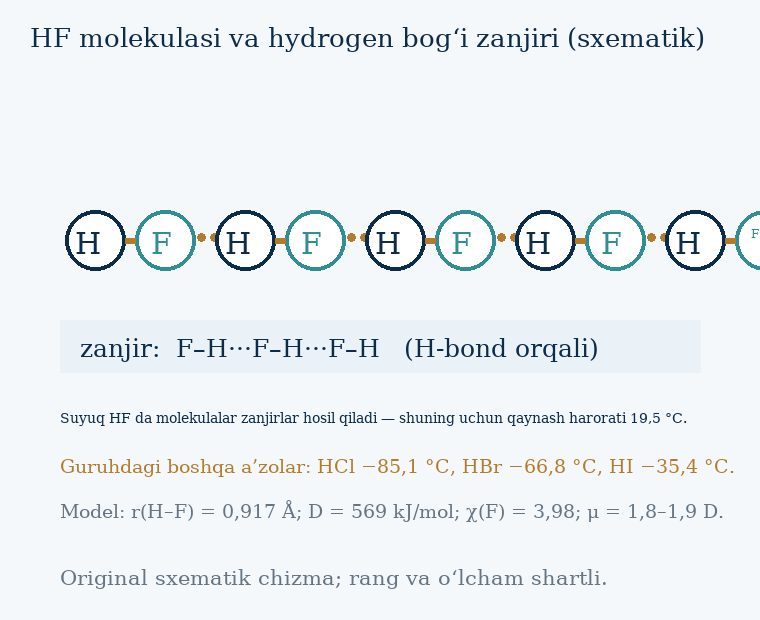
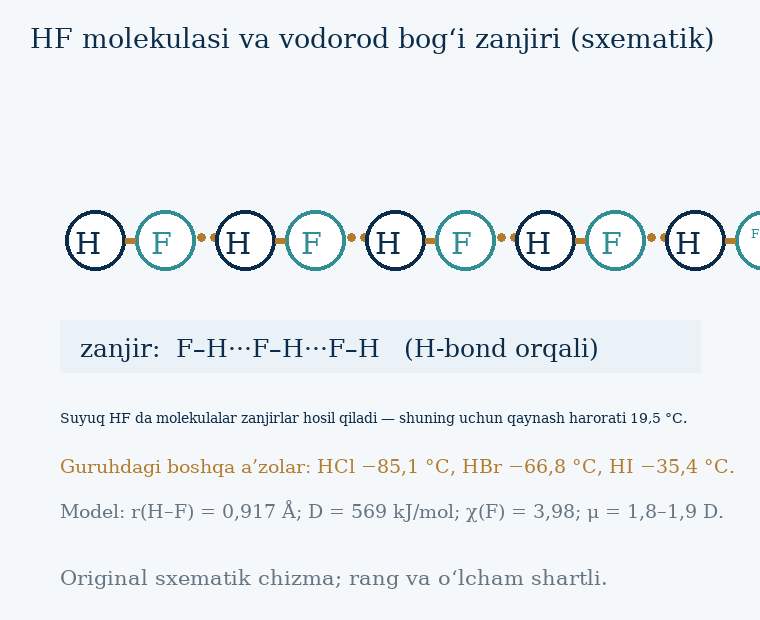
terminologiya: «hydrogen bog‘i» → «vodorod bog‘i» (kitob bo‘ylab)
- 20 ta joyda yarim tarjima atamasi to‘liq o‘zbekchaga o‘tkazildi: 6.1 va 6.2 matn,
  jadvallar, sxema sarlavhalari, grafik yozuvlari, formulalar va rasm manbalari
- Inglizcha rasmiy nomlar (hydrogen chloride, hydrogenphosphate) va bibliografik
  sarlavhalar o‘zgartirilmadi
- 6.1 va 6.2 DOCX qayta qurildi; ikkala checker PASS; Google PDF’lar qayta eksport
  qilinib 11 sahifa saqlangani tekshirildi
- Drive nusxalari yangilandi (eski ID’lar muxlatga solindi)

Changed region(s): [[0.0605, 0.0306, 0.9382, 0.0919]]

diff --git a/kitob/qurilma/build_06_02_sidebar.py b/kitob/qurilma/build_06_02_sidebar.py
@@ -20,10 +20,10 @@ ASSETS = ROOT / 'rasmlar' / 'hf'
 NAVY = '0B2C4A'; BRONZE = 'C28E3B'; PALE = 'EDF3F7'; INK = '243746'
 
 panels = [
- (0, 'molekulax.png', 'rasm', 'HF molekulasi va hydrogen bog‘i.',
+ (0, 'molekulax.png', 'rasm', 'HF molekulasi va vodorod bog‘i.',
   '6.2.1-rasm. HF molekulasi va uning zanjir hosil qilishi (sxematik, original).'),
  (1, 'fizikx.png', 'sxema', 'Anhidr HF: fizik xossalar.',
-  '6.2.2-sxema. Suyuqlanish diapazoni, dielektrik doimiy, hydrogen bog‘i va o‘z-o‘zini ionlashuv.'),
+  '6.2.2-sxema. Suyuqlanish diapazoni, dielektrik doimiy, vodorod bog‘i va o‘z-o‘zini ionlashuv.'),
  (2, 'anidrsx.png', 'sxema', 'Anhidr HF erituvchi tizimi.',
   '6.2.3-sxema. Proton holati, Lewis kislotalar va superkislota hosil bo‘lishi (sxematik).'),
  (3, 'spetsiatsiya.png', 'grafik', 'Suvli HF: zarrachalarning ulushi.',
@@ -161,7 +161,7 @@ def add_comparison_table(cell, spec):
 
 refs = [
  '[1] Housecroft & Sharpe — Liquid HF: suyuqlanish 190–292,5 K; ε = 84 (273 K), 175 (200 K); K_self = 2×10⁻¹² (273 K); 3HF ⇌ H₂F⁺ + HF₂⁻.',
- '[2] Barron’s — Compounds of Fluorine; Wikipedia — Hydrogen fluoride: hydrogen bog‘i; HF₂⁻ hosil bo‘lishi (lgK = 0,7); ion juftlari [H₃O⁺·F⁻]; SiO₂ tenglamalari.',
+ '[2] Barron’s — Compounds of Fluorine; Wikipedia — Hydrogen fluoride: vodorod bog‘i; HF₂⁻ hosil bo‘lishi (lgK = 0,7); ion juftlari [H₃O⁺·F⁻]; SiO₂ tenglamalari.',
  '[3] Wikipedia — Superacid va Fluoroantimonic acid: H₀ = −15,1 (HF), −21 (SbF₅), < −28 (1:1); SbF₅ + 2HF ⇌ H₂F⁺ + SbF₆⁻.',
  '[4] Kim et al. (2024), Applied Surface Science; Helms et al.; Yu et al.: r = 510[F⁻] + 610[HF] + 2890[HF₂⁻] Å/min; HF₂⁻ asosiy hissa; Si₃N₄ selektivligi.',
  '[5] CDC/NIOSH MMG 1142; Calpoison; StatPearls (NCBI): OSHA 3 ppm, ACGIH 0,5 ppm (F), TLV-C 2 ppm, IDLH 30 ppm; kalsiy glyukonat bilan davolash.',

diff --git a/kitob/qurilma/build_06_01_sidebar.py b/kitob/qurilma/build_06_01_sidebar.py
@@ -23,7 +23,7 @@ panels = [
  (0, 'sxematurlari.png', 'sxema', 'Guruh trendlari: bitta sxema, beshta ko‘rsatkich.',
   '6.1.1-sxema. Elektronegativlik, bog‘ energiyasi, kislotalik, termik barqarorlik va qaytaruvchilik trendlari.'),
  (1, 'gibridlanishx.png', 'sxema', 'H–X bog‘i va dipol moment.',
-  '6.1.2-sxema. Elektron bulutining siljishi, σ bog‘ quyuqligi va hydrogen bog‘i (sxematik).'),
+  '6.1.2-sxema. Elektron bulutining siljishi, σ bog‘ quyuqligi va vodorod bog‘i (sxematik).'),
  (2, 'kislotalik.png', 'grafik', 'Suvda tekislash va DMSOdagi farq.',
   '6.1.3-grafik. pK_a qiymatlari suvda va DMSO da (model egri chizig‘i).'),
  (3, 'energiya.png', 'grafik', 'Energetik balans: bog‘ va gidratatsiya.',

diff --git a/kitob/qurilma/content_06_02.py b/kitob/qurilma/content_06_02.py
@@ -38,7 +38,7 @@ data = [
  ['Chegara', 'Doza va sharoitlar berilmadi', 'Model']]),
 ('spetsiatsiya', 'Suvli HF: spetsiatsiya va konsentratsiya', [
  ['Ka (suv)', '6,8×10⁻⁴ (pK_a 3,17)', 'Kuchsiz kislota'],
- ['Ion juftlari', '[H₃O⁺·F⁻] — hydrogen bog‘langan', 'Dissotsiatsiya kamayadi'],
+ ['Ion juftlari', '[H₃O⁺·F⁻] — vodorod bog‘langan', 'Dissotsiatsiya kamayadi'],
  ['HF₂⁻ hosil bo‘lishi', 'HF + F⁻ ⇌ HF₂⁻; lgK = 0,7', 'Konsentratsiya oshganda'],
  ['Model: 0,010 M', 'HF 76,0 %; F⁻ 22,3 %; HF₂⁻ 0,8 %; pH 2,635', 'Ideal erituvchi modeli'],
  ['Model: 0,100 M', 'HF 87,9 %; F⁻ 6,4 %; HF₂⁻ 2,8 %; pH 2,033', 'Model'],

diff --git a/kitob/qurilma/check_06_02.py b/kitob/qurilma/check_06_02.py
@@ -96,7 +96,7 @@ ck(ms.count('[[EQ:') == 11 and ms.count('[[TABLE:') == 11, 'matnda 11 formula va
 ck('amaliyot tavsiyalari berilmaydi' in ms, 'xavfsizlik chegarasi matnda bayon qilindi')
 ck('o‘lchov ma’lumotlari emas' in ms, 'model cheklovi matnda ko‘rsatilgan')
 ck('CaF₂ + H₂SO₄' in ms and 'SiO₂ + 6HF' in ms, 'asosiy tengliklar matnda')
-ck('hydrogen bog‘i' in ms and 'passivatsiya' in ms, 'mavzu kalit tushunchalari matnda')
+ck('vodorod bog‘i' in ms and 'passivatsiya' in ms, 'mavzu kalit tushunchalari matnda')
 
 print('5) DOCX tuzilmasi')
 doc = Document(DOCX)

diff --git a/kitob/qurilma/equations_06_02.py b/kitob/qurilma/equations_06_02.py
@@ -18,7 +18,7 @@ def halide_equations():
       # 1 — molekula
       [seq('r(H–F) = 0,917 Å;  ', var('D', ''), '(H–F) = 569 kJ/mol'),
        seq('χ(F) = 3,98;  Δχ(H–F) = 1,78;  ', var('μ', ''), ' = 1,8–1,9 D'),
-       seq(chem('H–F···H–F···H–F'), '   (hydrogen bog‘i zanjiri)'),
+       seq(chem('H–F···H–F···H–F'), '   (vodorod bog‘i zanjiri)'),
        seq('T', var('q', ''), ' :  HF 19,5 °C  >  HCl −85,1 °C')],
       # 2 — anhidr HF
       [chem('3HF ⇌ H₂F⁺ + HF₂⁻'),

diff --git a/kitob/qurilma/draw_06_02.py b/kitob/qurilma/draw_06_02.py
@@ -244,7 +244,7 @@ scheme('fizikx', 'Anhidr HF: fizik xossalar va erituvchi sifatida (sxematik)', [
 
 
 # --- Original illustrasiyalar ---------------------------------------------
-im, d = canvas('HF molekulasi va hydrogen bog‘i zanjiri (sxematik)', 620)
+im, d = canvas('HF molekulasi va vodorod bog‘i zanjiri (sxematik)', 620)
 for i in range(5):
     x = 95 + 150 * i
     d.ellipse((x - 30, 210, x + 30, 270), fill='#FFFFFF', outline=N, width=4)

diff --git a/kitob/dizayn.md b/kitob/dizayn.md
@@ -526,22 +526,32 @@ Hamma yangi nusxalar reader/discovery=false. Oldingi Drive fayllari o‘chirilma
 - Native Google Docs→DOCX roundtrip 1930336 bayt: 45 OMML qatori, 12 kasr, 121 pastki, 28 yuqori, 17 rasm saqlangan. Yakuniy Google PDF 1394442 bayt, 11 sahifa. PDF `google_drive/6.1 qoralamalar/6.1 final.pdf` da.
 - Xavfsizlik: HF uchun tizimli toksiklik va chegaralar (OSHA TWA 3 ppm, IDLH 30 ppm) manbaga asosida keltirilgan; olish usullari va materiallar faqat sxematik tarzda; konsentratsiya, idish tanlash, saqlash va amaliy tayyorlash bo‘yicha amaliyot tavsiyalari berilmaydi.
 - QA paytida yuklangan 3 ta oraliq native Docs va 3 ta oraliq DOCX muxlatga solindi; foydalanuvchiga faqat quyidagi yakuniy havolalar beriladi.
-- Yakuniy DOCX: https://drive.google.com/uc?id=17T_Tq_DJexBIxnphYJvM_MkIFdNv3QEj&export=download
-- Yakuniy Google Docs: https://docs.google.com/document/d/1MkYjXOpbSIXM_D64UzQjZULXjdxQHcXAof5ckT6lPxs/edit
+- Yakuniy DOCX: https://drive.google.com/uc?id=1rlHTOfIq3R3lspPglH4K5v-zaxrRRaFp&export=download
+- Yakuniy Google Docs: https://docs.google.com/document/d/1PT_X45Tw_cwl5VQnDFM0El62SrY7Nlzgls4gA0N5Y_E/edit
 - Ikkala yakuniy nusxa reader/discovery=false. Manbalar, model va render QA `matn/06_01_rasm_manbasi.md` da.
 - Keyingi mavzu: 6.2 — HF, ftorid kislota.
 
 ## 6.2 — HF, ftorid kislota (2026-10-23)
 - Alohida DOCX: `chiqish/Noorganik-kislotalar-6.2-HF-florid-kislota.docx`; 958 892 bayt; 11 sahifa (har bir bo‘lim aynan bitta sahifada). 6-bobning ikkinchi mavzusi.
-- 11 bo‘lim: molekulaning maxsusligi va hydrogen bog‘i; anhidr HF erituvchi tizimi; HF asosidagi superkislotalar; suvli HF spetsiatsiyasi; ishlab chiqarish, tozalash va qayta foydalanish; shisha va keramikaga ta’sir (yemirish modeli); metallarga ta’sir (fluoridli passivatsiya); floridlar, komplekslar va qo‘llanish; sanoat sohalari; xavfsizlik, ekologiya va chiqindilar; sifat, tahlil va ishlangan hisob.
+- 11 bo‘lim: molekulaning maxsusligi va vodorod bog‘i; anhidr HF erituvchi tizimi; HF asosidagi superkislotalar; suvli HF spetsiatsiyasi; ishlab chiqarish, tozalash va qayta foydalanish; shisha va keramikaga ta’sir (yemirish modeli); metallarga ta’sir (fluoridli passivatsiya); floridlar, komplekslar va qo‘llanish; sanoat sohalari; xavfsizlik, ekologiya va chiqindilar; sifat, tahlil va ishlangan hisob.
 - A4 13,5:4,5 cm, ko‘k/bronza ramkalar. 11 jadval, 11 raqamlangan Equation guruh (46 native OMML qatori), 5 hisoblangan grafik + 6 CSV, 7 sxema, 5 original illyustratsiya (17 PNG), 22 yon lavha, 11-bo‘limda 6 ta adabiyot bloki. TNR matn (10 pt), Cambria Math Equation, DejaVu Serif raster.
-- Markaziy g‘oya: HF boshqa galogenidlardan ikki tomonlama farqlanadi — suvda kuchsiz kislota (Ka = 6,8×10⁻⁴, ion juftlari [H₃O⁺·F⁻]), quruq holda kuchli kislota va kuchli erituvchi; hydrogen bog‘i tufayli qaynash harorati 19,5 °C (guruhda eng yuqori). Anhidr HF o‘z-o‘zini ionlashadi (3HF ⇌ H₂F⁺ + HF₂⁻, K_self = 2×10⁻¹²) va kuchsiz, kichik F⁻ ioni bilan kuchli bog‘lanadi — shuning uchun HF + SbF₅ superkislota beradi (H₀ = −15,1 → −21 → < −28).
+- Markaziy g‘oya: HF boshqa galogenidlardan ikki tomonlama farqlanadi — suvda kuchsiz kislota (Ka = 6,8×10⁻⁴, ion juftlari [H₃O⁺·F⁻]), quruq holda kuchli kislota va kuchli erituvchi; vodorod bog‘i tufayli qaynash harorati 19,5 °C (guruhda eng yuqori). Anhidr HF o‘z-o‘zini ionlashadi (3HF ⇌ H₂F⁺ + HF₂⁻, K_self = 2×10⁻¹²) va kuchsiz, kichik F⁻ ioni bilan kuchli bog‘lanadi — shuning uchun HF + SbF₅ superkislota beradi (H₀ = −15,1 → −21 → < −28).
 - Model qiymatlari: speksiatsiya modeli 0,010 M → HF 76,0 % / F⁻ 22,3 % / HF₂⁻ 0,8 % (pH 2,635), 1,000 M → 89,5 / 1,1 / 4,7 % (1,238), 10,000 M → HF₂⁻ 5,2 % (0,277); yemirish r = 510[F⁻] + 610[HF] + 2890[HF₂⁻] Å/min → 1,000 M: 687,8; 4,000 M: 2778,7; 8,000 M: 5567,7 Å/min; 1 kg SiO₂ → HF 1997,8 g (48 % da 4162,1 g), H₂SiF₆ 2398,2 g, H₂O 599,6 g; passivatsiya 1 g Al → 3,113 g AlF₃, Fe → 2,326 g FeF₃, Ni → 1,647 g NiF₂, Cu → 1,598 g CuF₂; chiqindi 1000 kg 10 % HF → Ca(OH)₂ 185,2 kg, CaF₂ 195,1 kg, H₂O 90,0 kg (kirish 285,2 = chiqish 285,2 kg); qoldiq F⁻: Ca²⁺ 0,001 M → 3,752 mg/L, 0,010 M → 1,186 mg/L, 0,100 M → 0,375 mg/L (K_sp = 3,9×10⁻¹¹); kaltsiy 20 g HF → 0,500 mol Ca²⁺ → 224,1 g glyukonat, 100 g HF → 2,499 mol → 1120,6 g; olish 1000 kg fluorit (97 %, unum 92 %) → HF 457,3 kg, H₂SO₄ 1218,5 kg, CaSO₄ 1691,4 kg. Barchasi ochiq shartli model; tajriba ma’lumoti emas.
 - Modelda topilgan xatolar tuzatildi: (1) chiqindi modelida CaF₂ stöchiometriya noto‘g‘ri hisoblangan (n(HF) emas n(CaF₂) = n(HF)/2) — kirish 285,2 kg ≠ chiqish 480,3 kg xatosi tuzatildi; (2) g→kg konversiyasi (Ca(OH)₂ 185 176,9 kg → 185,2 kg) tuzatildi; (3) grafiklarda teg takrorlanishi va yon ustun bilan ustma-ust tushishi tuzatildi (grafiklar qayta chizildi, chiqindi grafigi ikki ustki panelli qilindi); (4) `Selekтивlik` yozuvida kirill harflar aralashgan — barcha 6.2 fayllarida `Selektivlik` ga tuzatildi; (5) butun kitob bo‘yicha kirill qoldiqlari tekshirildi — `dizayn.md`, 4.4 jadval/generator/draw fayllaridagi «Fazа» va «bронза» xatolari tuzatildi (build_01_01.py, build_docx.py, build_mundarija_docx.py dagi kirill atamalar ataylab qoldirildi).
 - `check_06_02.py` PASS: model nuqtalari (spetsiatsiya 8 konsentratsiya, yemirish tezligi, passivatsiya 4 metall, chiqindi mass balansi, qoldiq fluorid 5 nuqta, kaltsiy talabi, olish va shisha modellari, anhidr HF konstantalari), 6 CSV qator sonlari, 17 PNG, matndagi barcha asosiy raqamlar va atamalar (WHO 1,5 mg/L, AQSh 4,0 mg/L, OSHA 3 ppm, IDLH 30 ppm, kalsiy glyukonat, gipokalsemiya, Na₃AlF₆, H₂SiF₆), Word matematiği (46 OMML qatori), 11 jadval sarlavhasi, 11 formula raqami (6.2.1)…(6.2.11), 17 rasm, 22 yon lavha, TNR/Cambria Math shriftlari, xavfsizlik chegarasi matni.
 - Sahifalash: dastlabki render 13 sahifa bo‘ldi (7- va 11-bo‘limlar yon ustuni to‘shdi) → 7-bo‘limdan ikkinchi rasm (grafik) 8-bo‘limga ko‘chirildi; 11-bo‘limda adabiyotlar 8 → 6 qisqartirildi va 7 pt qilindi, jadval 11 → 9 qator; kalsiy grafigi 3-bo‘limga ko‘chirildi → 11 sahifa, bo‘sh sahifa yo‘q. Sahifalar 1, 6 va 11 ko‘z bilan tekshirildi.
 - Xavfsizlik: HF ning tizimli toksikligi (Ca²⁺/Mg²⁺, gipokalsemiya), chegaralar (OSHA 3 ppm, ACGIH 0,5 ppm (F), TLV-C 2 ppm, IDLH 30 ppm) va kalsiy glyukonat manbaga asosida keltirilgan; davolash dozalari va amaliyot tavsiyalari berilmadi; tibbiy yordam — shifokor qarori bilan.
-- Manbalar, model va render QA `matn/06_02_rasm_manbasi.md` da. PDF: `google_drive/6.2 qoralamalar/6.2 final.pdf` (1 358 862 B, 11 sahifa).
-- Yakuniy DOCX: https://drive.google.com/uc?id=13xSUPEFnN6r9RPSxMHNSHmPTwOnvtcdJ&export=download
-- Yakuniy Google Docs: https://docs.google.com/document/d/1F2ru0JIcN-JfPg25n4D-FQte931ZPSVj0mYKi6u2my0/edit
+- Manbalar, model va render QA `matn/06_02_rasm_manbasi.md` da. PDF: `google_drive/6.2 qoralamalar/6.2 final.pdf` (1 358 786 B, 11 sahifa).
+- Yakuniy DOCX: https://drive.google.com/uc?id=1fSrPnvKLpSbEyJ0Ddhl7DH9u3rxB24bD&export=download
+- Yakuniy Google Docs: https://docs.google.com/document/d/1G2kYZd1m26cKCou4EIECkNVDdI2vYpIOeucfJmnx5DQ/edit
 - Ikkala yakuniy nusxa reader/discovery=false. Keyingi mavzu: 6.3 — HCl, xlorid kislota.
+
+## Terminologiya tuzatuvi: «hydrogen bog‘i» → «vodorod bog‘i» (2026-10-23)
+- Foydalanuvchi izohi bo‘yicha yarim tarjima qilingan «hydrogen bog‘i» atamasi kitob bo‘ylab to‘liq o‘zbekchaga o‘tkazildi: **vodorod bog‘i** (vodorod bog‘lanishi, vodorod bog‘langan).
+- Almashgan 20 ta joy: `matn/06_02.md` (4), `matn/06_02_jadvallar.json` (1), `matn/06_02_rasm_manbasi.md` (4), `matn/06_01_rasm_manbasi.md` (1), `qurilma/content_06_02.py` (1), `qurilma/equations_06_02.py` (1), `qurilma/draw_06_02.py` (1), `qurilma/build_06_02_sidebar.py` (3), `qurilma/build_06_01_sidebar.py` (1), `qurilma/check_06_02.py` (1), `dizayn.md` (2).
+- Atama nomi, bibliografik sarlavhalar («Wikipedia — Hydrogen fluoride», «Definition of the hydrogen bond (IUPAC)») va 2.4-bo‘limdagi nomlash qoidalari (hydrogen chloride, hydrogenphosphate, dihydrogenphosphate) o‘zgartirilmadi — ular inglizcha rasmiy nomlar va manba sarlavhalari.
+- 6.1 va 6.2 hujjatlari qayta qurildi, `check_06_01.py` va `check_06_02.py` PASS (11 sahifa saqlanadi, Google PDF’lar qayta eksport qilinib tekshirildi: 6.1 — 1 394 441 B, 6.2 — 1 358 786 B, ikkalasi 11 sahifa).
+- Yangilangan Drive havolalari:
+  - 6.1 Google Docs: https://docs.google.com/document/d/1PT_X45Tw_cwl5VQnDFM0El62SrY7Nlzgls4gA0N5Y_E/edit ; DOCX: https://drive.google.com/uc?id=1rlHTOfIq3R3lspPglH4K5v-zaxrRRaFp&export=download
+  - 6.2 Google Docs: https://docs.google.com/document/d/1G2kYZd1m26cKCou4EIECkNVDdI2vYpIOeucfJmnx5DQ/edit ; DOCX: https://drive.google.com/uc?id=1fSrPnvKLpSbEyJ0Ddhl7DH9u3rxB24bD&export=download
+  - Eski (muxlatga solingan) nusxalar: 1MkYjXOpbSIXM_D64UzQjZULXjdxQHcXAof5ckT6lPxs, 17T_Tq_DJexBIxnphYJvM_MkIFdNv3QEj, 1F2ru0JIcN-JfPg25n4D-FQte931ZPSVj0mYKi6u2my0, 13xSUPEFnN6r9RPSxMHNSHmPTwOnvtcdJ.

diff --git a/kitob/matn/06_02_rasm_manbasi.md b/kitob/matn/06_02_rasm_manbasi.md
@@ -2,8 +2,8 @@
 
 ## Manbalar (to‘liq o‘qilgan)
 1. **Housecroft & Sharpe, Inorganic Chemistry — 9.7A: Liquid Hydrogen Fluoride** (https://chem.libretexts.org/Bookshelves/Inorganic_Chemistry/Map:_Inorganic_Chemistry_(Housecroft)/09:_Non-aqueous_Media/9.07:_Liquid_Hydrogen_Fluoride/9.7A:_Physical_Properties). Suyuqlanish diapazoni 190–292,5 K; nisbiy o‘tkazuvchanlik ε = 84 (273 K) va 175 (200 K); o‘z-o‘zini ionlashuv K_self = 2×10⁻¹² (273 K); 3HF ⇌ H₂F⁺ + HF₂⁻.
-2. **Barron’s, Chemistry of the Main Group Elements — 10.2: Compounds of Fluorine** (https://chem.libretexts.org/Bookshelves/Inorganic_Chemistry/Chemistry_of_the_Main_Group_Elements_(Barron)/10:_The_Halogens/10.02:_Compounds_of_Fluorine). HF da hydrogen bog‘i va polimerlanish; ε = 84,2; HF₂⁻ hosil bo‘lishi (pK = 0,7); SbF₅ bilan superkislota; BF₃, PF₅, AlF₃, GeF₄, SnF₄, SeF₄ — fluorid qabul qiluvchilar.
-3. **Wikipedia — Hydrogen fluoride / Hydrofluoric acid.** Kuchsiz kislota sababi — hydrogen bog‘langan ion juftlari [H₃O⁺·F⁻]; konsentratsiyalangan eritmada bifluorid ionlari; 3HF ⇌ H₂F⁺ + HF₂⁻; SiO₂ + 6HF → H₂SiF₆ + 2H₂O; SiO₂ + 4HF → SiF₄ + 2H₂O; azeotrop 37 % / 120 °C; M = 20,006 g/mol.
+2. **Barron’s, Chemistry of the Main Group Elements — 10.2: Compounds of Fluorine** (https://chem.libretexts.org/Bookshelves/Inorganic_Chemistry/Chemistry_of_the_Main_Group_Elements_(Barron)/10:_The_Halogens/10.02:_Compounds_of_Fluorine). HF da vodorod bog‘i va polimerlanish; ε = 84,2; HF₂⁻ hosil bo‘lishi (pK = 0,7); SbF₅ bilan superkislota; BF₃, PF₅, AlF₃, GeF₄, SnF₄, SeF₄ — fluorid qabul qiluvchilar.
+3. **Wikipedia — Hydrogen fluoride / Hydrofluoric acid.** Kuchsiz kislota sababi — vodorod bog‘langan ion juftlari [H₃O⁺·F⁻]; konsentratsiyalangan eritmada bifluorid ionlari; 3HF ⇌ H₂F⁺ + HF₂⁻; SiO₂ + 6HF → H₂SiF₆ + 2H₂O; SiO₂ + 4HF → SiF₄ + 2H₂O; azeotrop 37 % / 120 °C; M = 20,006 g/mol.
 4. **Wikipedia — Superacid; Fluoroantimonic acid; Antimony pentafluoride.** H₀(HF) = −15,1; H₀(SbF₅) = −21; 1:1 aralashma H₀ < −28; SbF₅ + 2HF ⇌ H₂F⁺ + SbF₆⁻; real eritma spetsiatsiyasi (H₃F₂⁺, Sb₄F₂₁⁻).
 5. **Kim et al. (2024), Applied Surface Science — Understanding the contributions of F⁻, HF and HF₂⁻ to the etching of SiO₂.** Tezlik qonuni: r (Å/min) = 510[F⁻] + 610[HF] + 2890[HF₂⁻]; HF₂⁻ — asosiy hissa.
 6. **Helms et al.; Yu et al.; GlobSino (etch ma’lumotlari).** HF₂⁻ tezligi HF dan ~4 barobar yuqori; H₂SiF₆ to‘planishi yemirishni sekinlashtiradi; selekтивlik SiO₂ : Si₃N₄ : Si ≈ 1 : >100 : 0,1; LPCVD Si₃N₄ — 3,3 Å/s; alyuminiy filmida fluoratsiya qatlami ~2000 Å, >50 % F.
@@ -13,7 +13,7 @@
 ## Model va hisoblar (barchasi ochiq shartli, o‘lchov ma’lumoti emas)
 - **Model A — suvli HF spetsiatsiyasi** (ideal erituvchi modeli; Ka = 6,8×10⁻⁴, HF + F⁻ ⇌ HF₂⁻ lgK = 0,7; zaryad va massa balansi bo‘yicha sonikli yechim):
   0,010 M → HF 76,0 %, F⁻ 22,3 %, HF₂⁻ 0,8 %, pH 2,635; 0,050 M → 86,0 / 9,8 / 2,1 %, pH 2,225; 0,100 M → 87,9 / 6,4 / 2,8 %, pH 2,033; 0,500 M → 89,4 / 1,9 / 4,3 %, pH 1,503; 1,000 M → 89,5 / 1,1 / 4,7 %, pH 1,238; 2,0 M → pH 0,958; 5,0 M → pH 0,573; 10,000 M → HF₂⁻ 5,2 %, pH 0,277.
-  Model chegarasi: faolik koeffitsiyentlar, pastki suv faolligi va ion juftlarining hydrogen bog‘lanishi hisobga olinmaydi — shuning uchun adabiyotdagi «konsentratsiyalangan HF da bifluorid ustun» xulosasi modelda to‘liq namoyon bo‘lmaydi.
+  Model chegarasi: faolik koeffitsiyentlar, pastki suv faolligi va ion juftlarining vodorod bog‘lanishi hisobga olinmaydi — shuning uchun adabiyotdagi «konsentratsiyalangan HF da bifluorid ustun» xulosasi modelda to‘liq namoyon bo‘lmaydi.
 - **Model B — shishani yemirish**: SiO₂ + 6HF → H₂SiF₆ + 2H₂O; 1 kg SiO₂ uchun HF 1997,8 g (48 % li eritmada 4162,1 g), H₂SiF₆ 2398,2 g, H₂O 599,6 g. Tezlik modeli: 0,05 M → 32 Å/min; 0,10 M → 65,1; 0,25 M → 167; 0,50 M → 340,3; 1,000 M → 687,8; 2,000 M → 1384; 4,000 M → 2778,7; 8,000 M → 5567,7 Å/min; HF₂⁻ ulushi 13 → 21 %.
 - **Model C — passivatsiya** (1 g metall): Al → AlF₃ 3,113 g (HF 1,483 g, H₂ 0,112 g); Fe → FeF₃ 2,326 g (HF 0,716 g, H₂ 0,054 g); Ni → NiF₂ 1,647 g (HF 0,682 g, H₂ 0,017 g); Cu → CuF₂ 1,598 g (HF 0,630 g, H₂ 0,016 g).
 - **Model D — chiqindi boshqaruv**: 2HF + Ca(OH)₂ → CaF₂↓ + 2H₂O; 1000 kg 10 % li HF uchun Ca(OH)₂ 185,2 kg, CaF₂ 195,1 kg, H₂O 90,0 kg; kirish 285,2 kg = chiqish 285,2 kg. Qoldiq fluorid (K_sp(CaF₂) = 3,9×10⁻¹¹): Ca²⁺ 0,001 M → 3,752 mg/L; 0,005 M → 1,68 mg/L; 0,010 M → 1,186 mg/L; 0,050 M → 0,53 mg/L; 0,100 M → 0,375 mg/L. Chegara: WHO 1,5 mg/L.
@@ -34,7 +34,7 @@ Har bir grafikda «model egri chizig‘i; o‘lchov ma’lumoti emas» belgisi b
 `fizikx.png` (anhidr HF fizik xossalari va erituvchi sifatida), `anidrsx.png` (erituvchi tizim: proton holati, Lewis kislotalar, superkislota), `olishsx.png` (olish, quruq tozalash, CaF₂ cho‘qmasini tiklash), `shishasx.png` (shishani yemirish mexanizmi va tezlik qonuni), `passivatsiyasx.png` (metallning fluoridli passivatsiyasi), `komplekssx.png` (fluoridlar, kriyolit, kompleks anionlar, suv chegaralari), `xavfsizliksx.png` (oldini olish → aniqlash → javob zanjiri).
 
 ## Illyustratsiyalar (5 ta, original; mikrofoto/atom tuzilmasi emas)
-`molekulax.png` (HF molekulasi va hydrogen bog‘i zanjiri), `qatlamx.png` (metall sirtidagi fluorid qatlami — sxematik kesim), `plyotax.png` (yarim o‘tkazgich tozalash: SiO₂ qatlami va substrat), `idishx.png` (saqlash va transport: idish tanlash), `hisob.png` (Model A — spetsiatsiya; B — yemirish; C — chiqindi; D — kaltsiy). Rang, o‘lcham va geometriya shartli.
+`molekulax.png` (HF molekulasi va vodorod bog‘i zanjiri), `qatlamx.png` (metall sirtidagi fluorid qatlami — sxematik kesim), `plyotax.png` (yarim o‘tkazgich tozalash: SiO₂ qatlami va substrat), `idishx.png` (saqlash va transport: idish tanlash), `hisob.png` (Model A — spetsiatsiya; B — yemirish; C — chiqindi; D — kaltsiy). Rang, o‘lcham va geometriya shartli.
 
 ## Cheklovlar
 - Sonli egri chiziqlar, massalar, tezliklar va energetik ko‘rsatkichlar — ochiq shartli model hisoblari; real o‘lchov yoki reyting emas.

diff --git a/kitob/matn/06_02.md b/kitob/matn/06_02.md
@@ -1,11 +1,11 @@
 # 6.2. HF — ftorid kislota
 
 ## 1. HF ning o‘rni va molekulasining maxsusligi
-Ftorid kislota — vodorod galogenidlari oilasining eng o‘zgarishiga moyil a’zosi. Sabab oddiy: F atomining radiusi juda kichik, elektronegativligi esa guruhdagi eng katta (3,98), shuning uchun H–F bog‘i guruhning eng qisqasi (0,917 Å) va eng kuchlisidir (569 kJ/mol). Bu bog‘ kuchsizligi HF ni boshqa galogenid kislotalaridan ikki tomonlama farqlaydi: bir tomonda u proton berish qobiliyati bo‘yicha kuchsiz (pK_a 3,17), ikkinchi tomonda esa o‘zaro bog‘lanish qudrati katta — HF molekulalari hydrogen bog‘i bilan zanjirlar hosil qiladi.
+Ftorid kislota — vodorod galogenidlari oilasining eng o‘zgarishiga moyil a’zosi. Sabab oddiy: F atomining radiusi juda kichik, elektronegativligi esa guruhdagi eng katta (3,98), shuning uchun H–F bog‘i guruhning eng qisqasi (0,917 Å) va eng kuchlisidir (569 kJ/mol). Bu bog‘ kuchsizligi HF ni boshqa galogenid kislotalaridan ikki tomonlama farqlaydi: bir tomonda u proton berish qobiliyati bo‘yicha kuchsiz (pK_a 3,17), ikkinchi tomonda esa o‘zaro bog‘lanish qudrati katta — HF molekulalari vodorod bog‘i bilan zanjirlar hosil qiladi.
 
-Hydrogen bog‘ining natijasi aniq ko‘rinadi: HF ning qaynash harorati 19,5 °C, ya’ni xona haroratidan yuqori, gurning boshqa uch a’zosi esa −85,1 / −66,8 / −35,4 °C da qaynaydi. Sabab: kichik va kuchli dipolli HF molekulalari orasidagi hydrogen bog‘ suv molekulalaridagi hydrogen bog‘dan ancha mustahkam. Shu sababli suyuq HF molekulalari qisman polimerlanadi — oddiy dimer emas, uzun zanjirlar hosil qiladi. Suyuq HF ning dielektrik doimiyligi 273 K da 84, 200 K da 175 — bu uni quyuq ionlar uchun yaxshi erituvchi qiladi.
+Hydrogen bog‘ining natijasi aniq ko‘rinadi: HF ning qaynash harorati 19,5 °C, ya’ni xona haroratidan yuqori, gurning boshqa uch a’zosi esa −85,1 / −66,8 / −35,4 °C da qaynaydi. Sabab: kichik va kuchli dipolli HF molekulalari orasidagi vodorod bog‘ suv molekulalaridagi vodorod bog‘dan ancha mustahkam. Shu sababli suyuq HF molekulalari qisman polimerlanadi — oddiy dimer emas, uzun zanjirlar hosil qiladi. Suyuq HF ning dielektrik doimiyligi 273 K da 84, 200 K da 175 — bu uni quyuq ionlar uchun yaxshi erituvchi qiladi.
 
-Sho‘hasalarga qarab HF ning namoyon bo‘lishi ham turlicha: suvda u kuchsiz kislota (Ka = 6,8×10⁻⁴), ko‘p hollarda hydrogen bog‘langan ion juftlari [H₃O⁺·F⁻] hosil qiladi; quruq holda esa u kuchli kislota va kuchli erituvchi, hatto superkislotalar asosi. Aynan shu ikki holat 6.1-bo‘limdagi umumiy trendlarning eng qiziqarli istisnosi bo‘lib, keyingi bo‘limlarda batafsil ochiladi.
+Sho‘hasalarga qarab HF ning namoyon bo‘lishi ham turlicha: suvda u kuchsiz kislota (Ka = 6,8×10⁻⁴), ko‘p hollarda vodorod bog‘langan ion juftlari [H₃O⁺·F⁻] hosil qiladi; quruq holda esa u kuchli kislota va kuchli erituvchi, hatto superkislotalar asosi. Aynan shu ikki holat 6.1-bo‘limdagi umumiy trendlarning eng qiziqarli istisnosi bo‘lib, keyingi bo‘limlarda batafsil ochiladi.
 
 [[TABLE:kirish]]
 

diff --git a/kitob/matn/06_01_rasm_manbasi.md b/kitob/matn/06_01_rasm_manbasi.md
@@ -34,7 +34,7 @@ Qo‘shimcha ma’lumot fayli: `azeotrop.csv` (azeotrop tarkibi, harorat, zichli
 Har bir grafikda «model egri chizig‘i; o‘lchov ma’lumoti emas» degan belgi bor.
 
 ## Sxemalar (7 ta, original o‘quv ishlari)
-`sxematurlari.png` (guruh trendlari: elektronegativlik, bog‘ energiyasi, kislotalik, termik barqarorlik, qaytaruvchilik), `gibridlanishx.png` (H–X σ bog‘i, elektron siljishi, dipol, hydrogen bog‘i), `olishsx.png` (HF, HCl, HBr, HI olish yo‘llari), `xossalarsx.png` (metallar, oksidlar, karbonatlar bilan va neytralizatsiya modeli), `redokssx.png` (HBr va HI ning oksidlanishi, havo bilan reaksiya, halogenning o‘zining oksidlovchi xarakteri), `materiallarx.png` (HF va shisha, metalllar, PTFE/PP, idish tanlash mezonlari), `xavfsizliksx.png` (HF ning tizimli toksikligi, chegara, neytralizatsiya, logistika).
+`sxematurlari.png` (guruh trendlari: elektronegativlik, bog‘ energiyasi, kislotalik, termik barqarorlik, qaytaruvchilik), `gibridlanishx.png` (H–X σ bog‘i, elektron siljishi, dipol, vodorod bog‘i), `olishsx.png` (HF, HCl, HBr, HI olish yo‘llari), `xossalarsx.png` (metallar, oksidlar, karbonatlar bilan va neytralizatsiya modeli), `redokssx.png` (HBr va HI ning oksidlanishi, havo bilan reaksiya, halogenning o‘zining oksidlovchi xarakteri), `materiallarx.png` (HF va shisha, metalllar, PTFE/PP, idish tanlash mezonlari), `xavfsizliksx.png` (HF ning tizimli toksikligi, chegara, neytralizatsiya, logistika).
 
 ## Illyustratsiyalar (5 ta, original; mikrofoto/atom tuzilishi emas)
 `guruhx.png` (to‘rt molekula va ularning o‘lchamlari — sxematik), `speciatsiyax.png` (eritmada HF, HF₂⁻ va H₂F⁺ spetsiatsiyasi), `sishax.png` (shishani HF yemirishining sxematik kesimi), `logistikax.png` (saqlash va transport: idish tanlash sxemasi), `hisob.png` (Model A — HF muvozanati; Model B — azeotrop; Model C — energiya balansi). Rang, o‘lcham va geometriya shartli.
